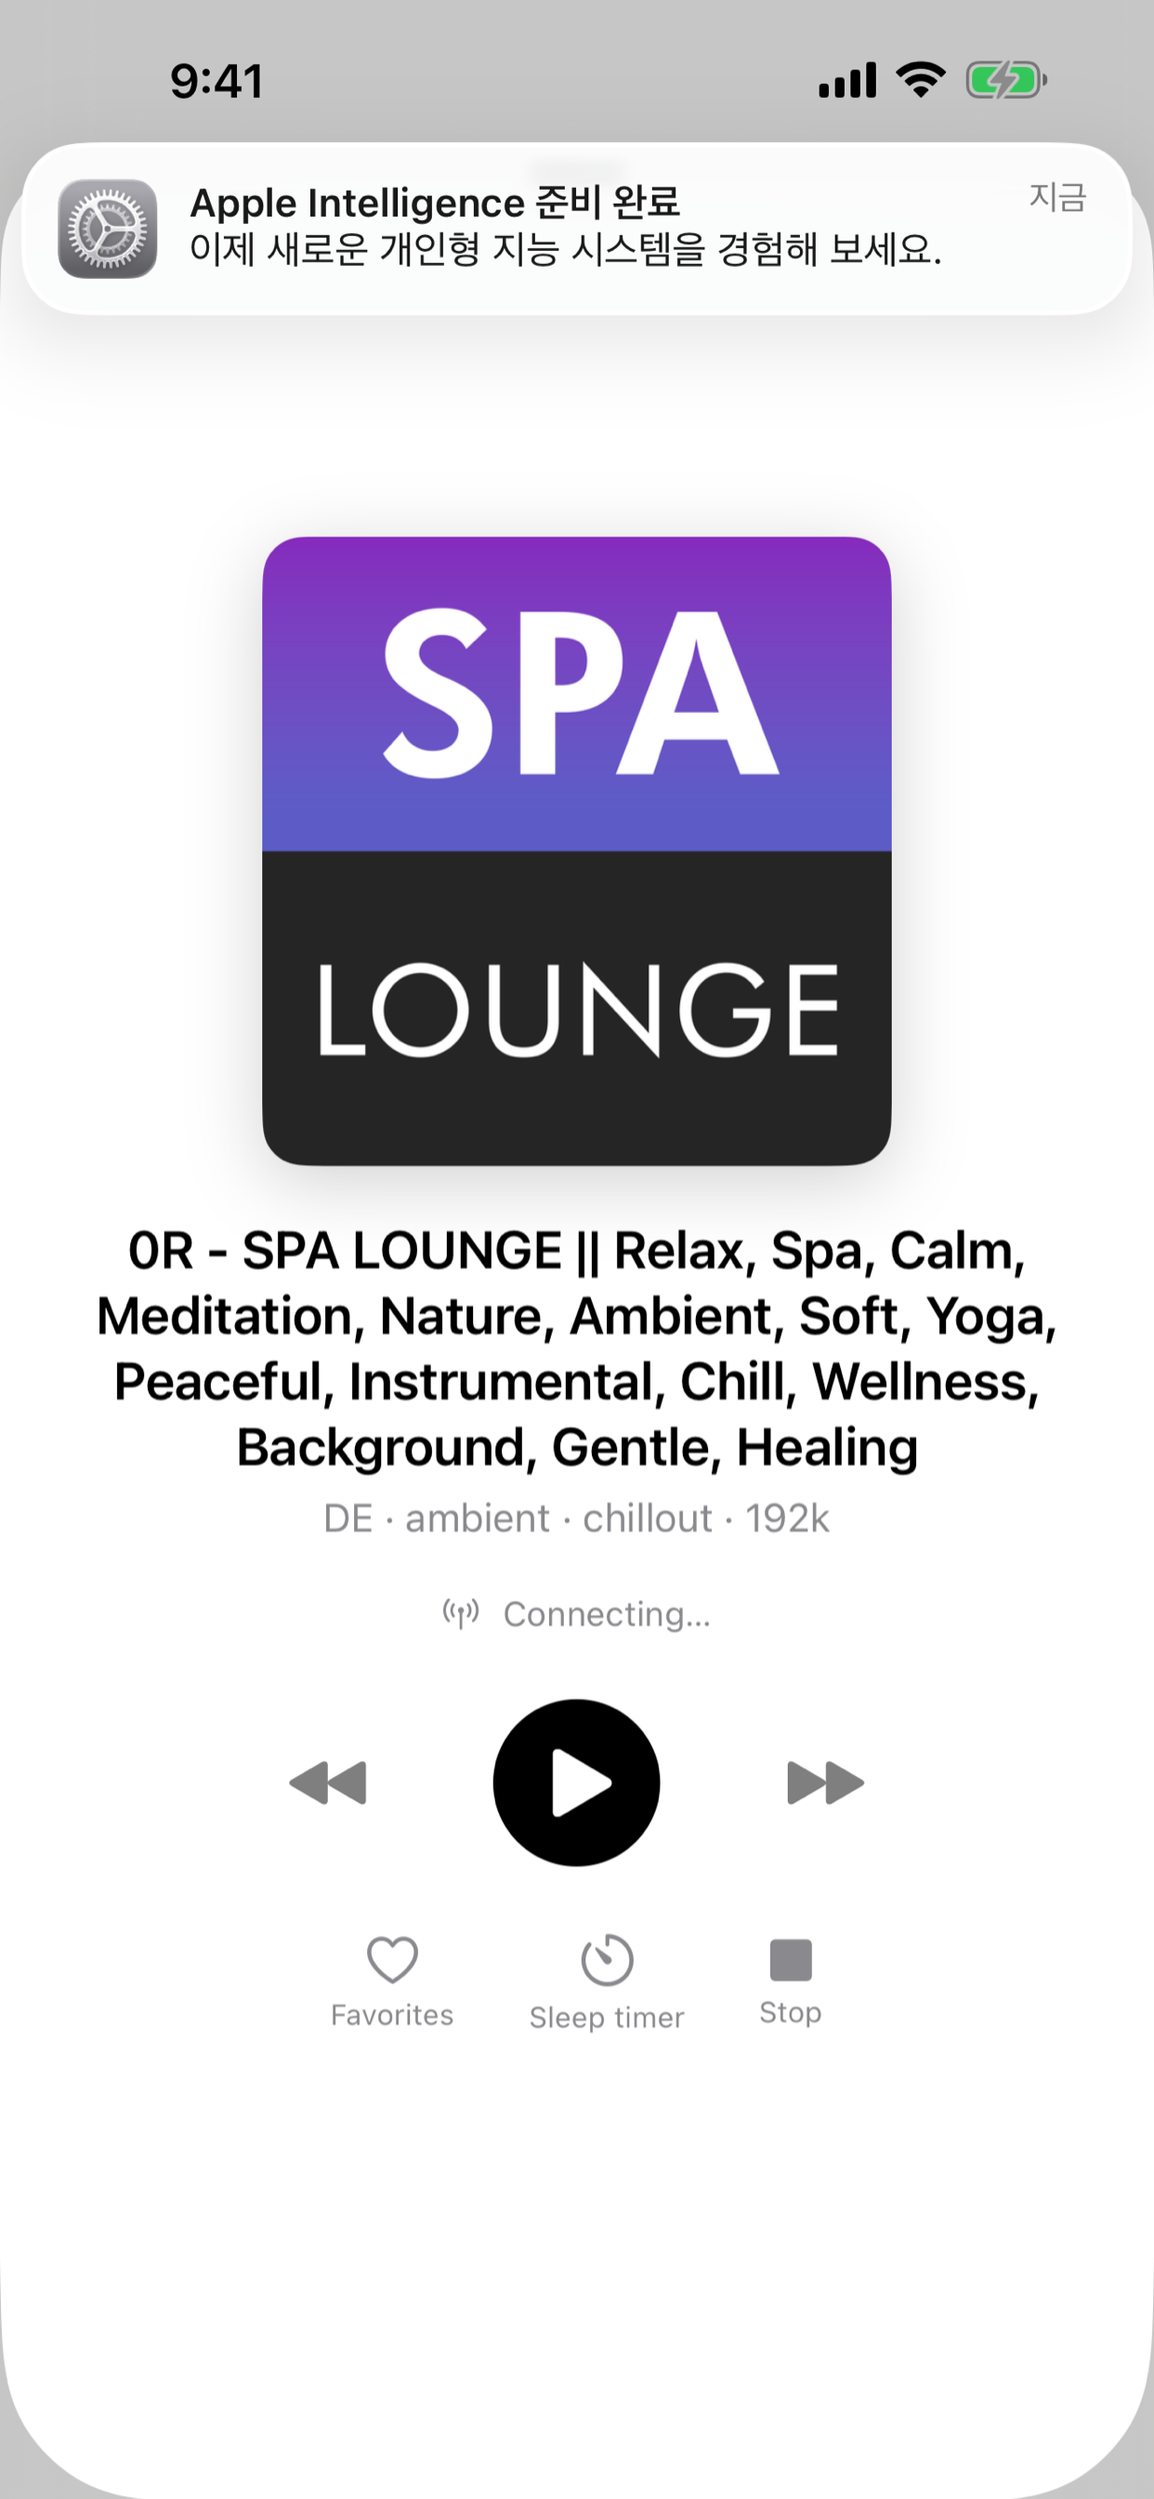
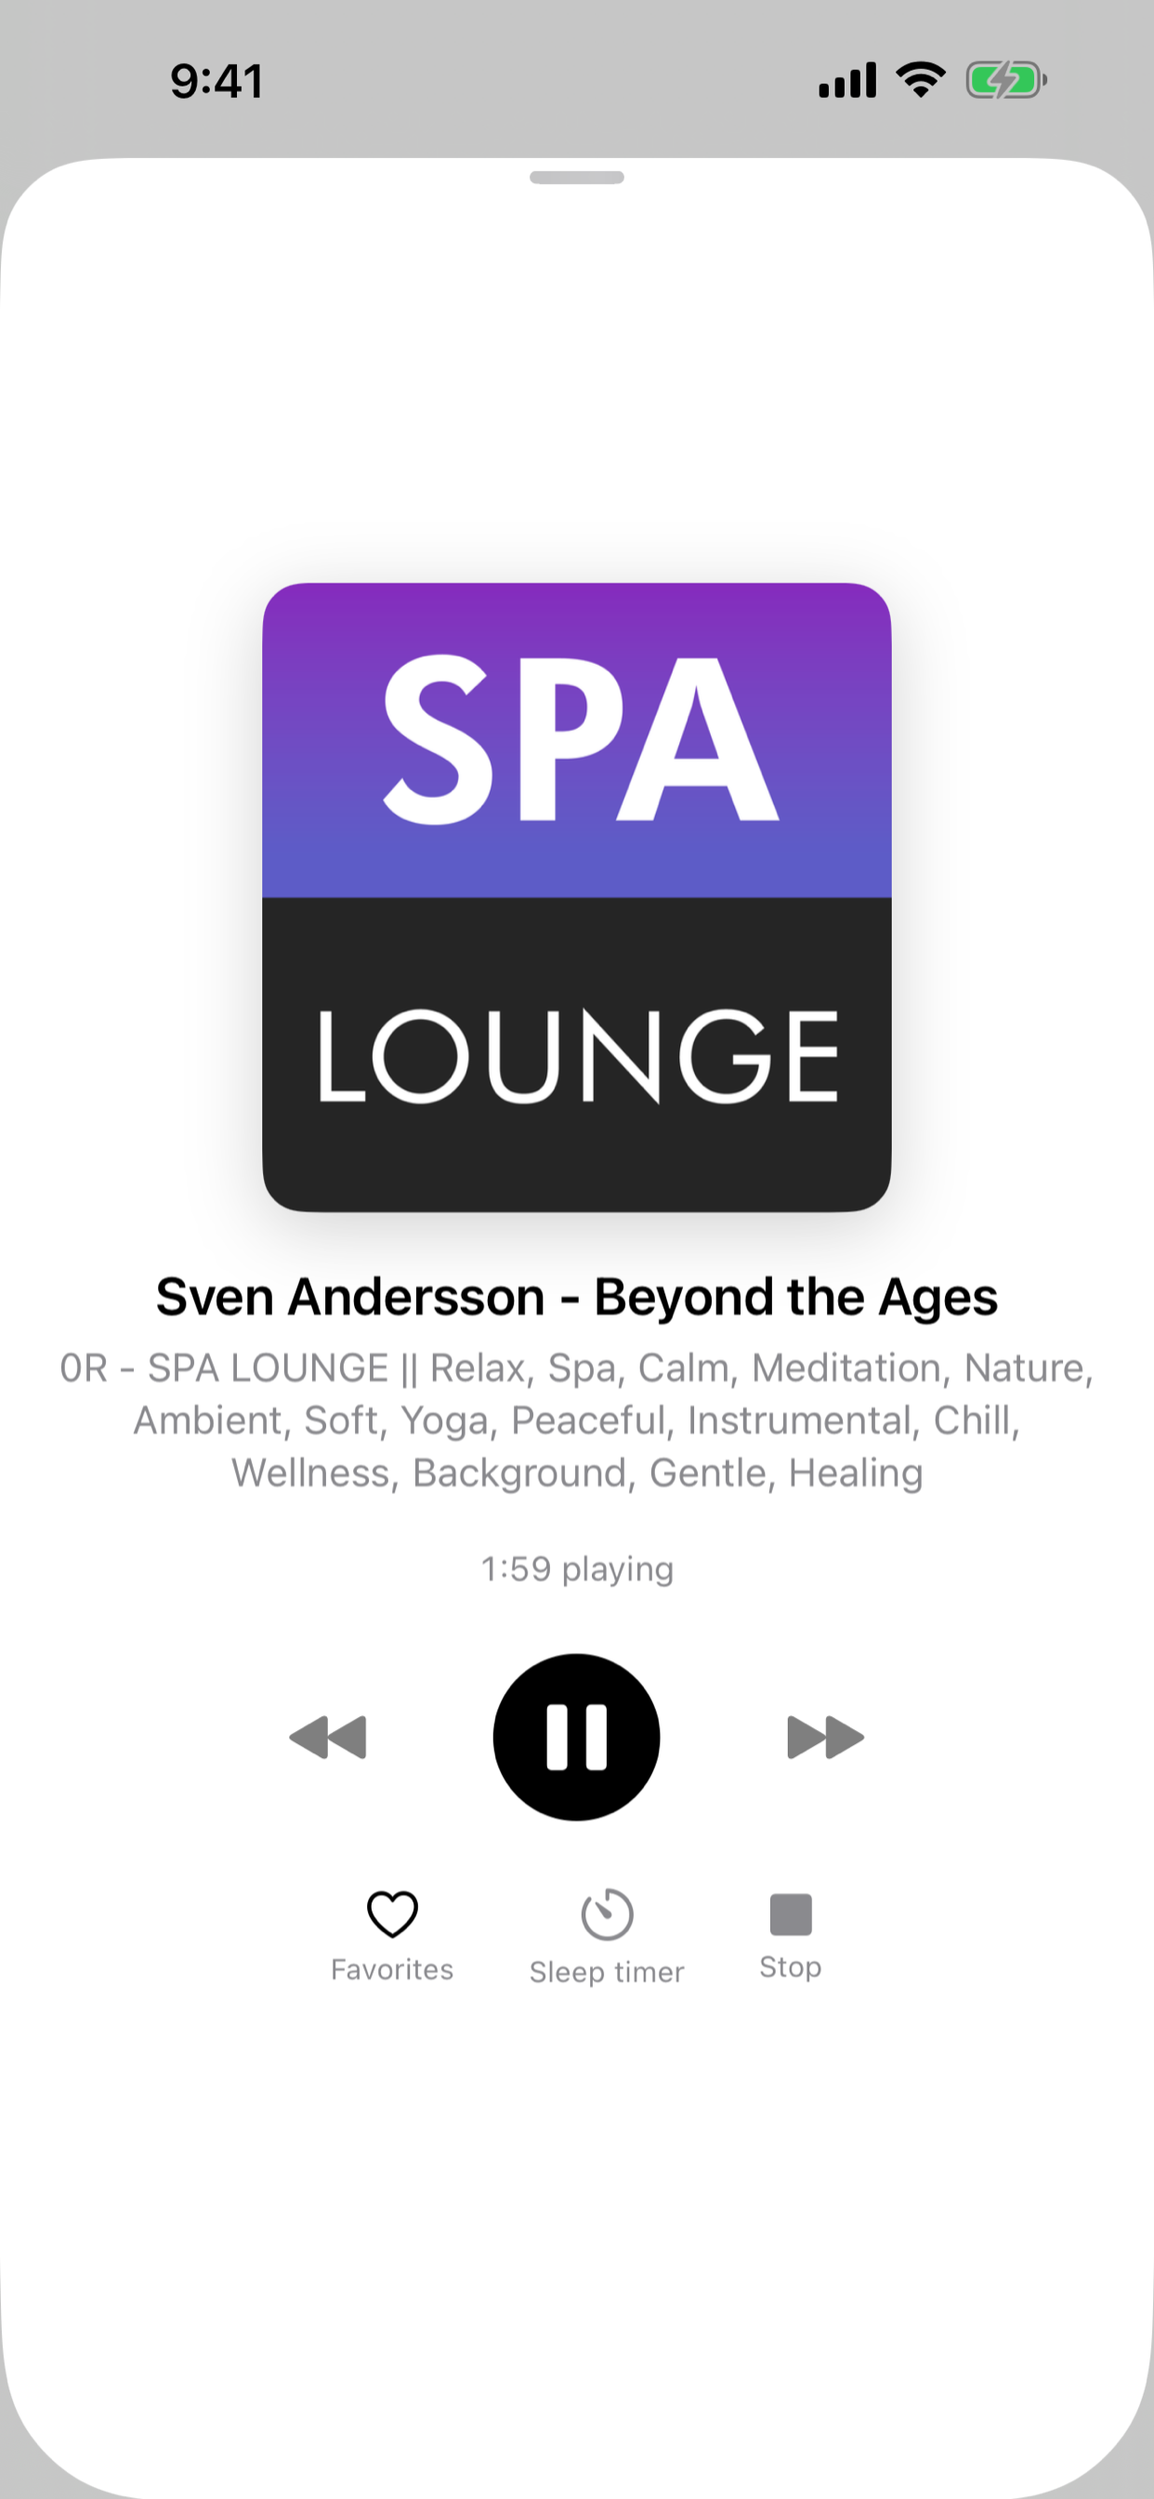
랜딩 검색·AI 답변 손질 — 공유 카드, 문의 FAQ, 캐시, 상호링크
공유 카드가 512px 아이콘이라 작은 카드로 떴다. 1200×630 을 한국어·영어 따로
만들고 summary_large_image 로 바꿨다. 만드는 자리는 worker/tools/ 다.

문의 페이지에 FAQPage 구조화 데이터가 없었다. "알람이 안 울려요" 같은 물음에
답으로 잡힐 자리인데 기계는 Q&A 인 줄 몰랐다. 글을 두 벌 적지 않으려고 문서
HTML 의 h2 와 그 아래 문단에서 뽑는다 — 화면과 갈라질 수가 없다.

정적 파일이 방문할 때마다 재검증됐다(max-age=0). _headers 로 캡처와 아이콘을
7일, 공유 카드를 1일로 잡았다. HTML 은 그대로 5분이다.

사파리 스마트 배너(apple-itunes-app)를 넣었다.

바닥글 상호링크에서 live-translate 가 빠져 llms.txt 와 어긋났다. 이름도 실제
표기(Cross-liveTranslate)로 맞췄다.

en/02-player.png 에 시뮬레이터가 띄운 한국어 알림이 찍혀 있었다. 열여섯 장
가운데 이 한 장만 그랬다. 다시 찍고 크기별 벌까지 갈았다. sips 로 줄이면 같은
화면인데도 JPEG 가 두 배가 돼서 랜딩용은 LANCZOS 로 줄인다.

diff --git a/worker/src/render.ts b/worker/src/render.ts
@@ -14,6 +14,8 @@ import { COPY, type Copy, type Lang } from "./content";
 
 export const SITE = "https://zeroplayer.zerolive.co.kr";
 export const APP_STORE_URL = "https://apps.apple.com/kr/app/zeroplayer/id1610259595";
+/** App Store 앱 ID. 사파리 스마트 배너(apple-itunes-app)가 이 값으로 앱을 찾는다. */
+export const APP_ID = "1610259595";
 export const REPO_URL = "https://github.com/leonardo204/zeroplayer";
 export const CONTACT_EMAIL = "zerolive7@gmail.com";
 export const APP_NAME = "zeroPlayer";
@@ -92,6 +94,7 @@ const SIBLINGS: { host: string; ko: string; en: string }[] = [
 	{ host: "golf", ko: "라운드온", en: "RoundOn" },
 	{ host: "wander", ko: "Wandery", en: "Wandery" },
 	{ host: "hamzzi-diet", ko: "햄찌 다이어트", en: "햄찌 다이어트" },
+	{ host: "live-translate", ko: "Cross-liveTranslate", en: "Cross-liveTranslate" },
 	{ host: "zeroplayer", ko: "zeroPlayer", en: "zeroPlayer" },
 ];
 const SELF_HOST = "zeroplayer";
@@ -143,11 +146,16 @@ ${o.keywords ? `<meta name="keywords" content="${esc(o.keywords)}">` : ""}
 <meta property="og:url" content="${o.canonical}">
 <meta property="og:type" content="website">
 <meta property="og:locale" content="${o.lang === "ko" ? "ko_KR" : "en_US"}">
-<meta property="og:image" content="${SITE}/assets/icon.png">
-<meta name="twitter:card" content="summary">
+<meta property="og:image" content="${SITE}${o.lang === "en" ? "/assets/og-en.jpg" : "/assets/og.jpg"}">
+<meta property="og:image:width" content="1200">
+<meta property="og:image:height" content="630">
+<meta property="og:image:alt" content="${esc(c.ogImageAlt)}">
+<meta name="twitter:card" content="summary_large_image">
 <meta name="twitter:title" content="${esc(o.title)}">
 <meta name="twitter:description" content="${esc(o.desc)}">
-<meta name="twitter:image" content="${SITE}/assets/icon.png">
+<meta name="twitter:image" content="${SITE}${o.lang === "en" ? "/assets/og-en.jpg" : "/assets/og.jpg"}">
+<meta name="twitter:image:alt" content="${esc(c.ogImageAlt)}">
+<meta name="apple-itunes-app" content="app-id=${APP_ID}">
 <link rel="icon" href="/assets/icon.png">
 <link rel="apple-touch-icon" href="/assets/icon.png">
 <link rel="preconnect" href="https://cdn.jsdelivr.net" crossorigin>
@@ -458,8 +466,57 @@ export function renderPrivacy(lang: Lang): string {
 	});
 }
 
+/**
+ * 문의 문서의 `<h2>` 와 그 아래 문단을 뽑아 FAQPage 구조화 데이터를 만든다.
+ *
+ * 글을 두 벌 적지 않는다. 화면에 보이는 것과 기계가 읽는 것이 갈라지면 구글이
+ * 구조화 데이터 위반으로 보고, 갈라진 줄도 모르게 된다. 그래서 같은 문자열에서 뽑는다.
+ * 첫 `<h2>` 앞의 문단은 머리말이라 건너뛴다.
+ */
+function faqFromDoc(html: string, url: string): unknown | null {
+	const parts = html.split(/<h2>/).slice(1);
+	const qa = parts
+		.map((chunk) => {
+			const end = chunk.indexOf("</h2>");
+			if (end < 0) return null;
+			const q = stripTags(chunk.slice(0, end));
+			const a = stripTags(chunk.slice(end + 5));
+			return q && a ? { q, a } : null;
+		})
+		.filter((x): x is { q: string; a: string } => x !== null);
+	if (!qa.length) return null;
+
+	return {
+		"@context": "https://schema.org",
+		"@type": "FAQPage",
+		"@id": url + "#faq",
+		mainEntity: qa.map((x) => ({
+			"@type": "Question",
+			name: x.q,
+			acceptedAnswer: { "@type": "Answer", text: x.a },
+		})),
+	};
+}
+
+/** 태그를 걷어내고 엔터티를 되돌려 줄글 한 덩이로 만든다. */
+function stripTags(html: string): string {
+	return html
+		.replace(/<[^>]+>/g, " ")
+		.replace(/&rarr;/g, "→")
+		.replace(/&nbsp;/g, " ")
+		.replace(/&amp;/g, "&")
+		.replace(/&lt;/g, "<")
+		.replace(/&gt;/g, ">")
+		.replace(/&quot;/g, '"')
+		.replace(/\s+/g, " ")
+		.trim();
+}
+
 export function renderSupport(lang: Lang): string {
 	const c = COPY[lang];
+	const doc = lang === "ko" ? SUPPORT_KO : SUPPORT_EN;
+	const url = SITE + (lang === "en" ? "/en/support" : "/support");
+	const faq = faqFromDoc(doc, url);
 	return shell({
 		lang,
 		title: `${c.supportTitle} — ${APP_NAME}`,
@@ -470,7 +527,8 @@ export function renderSupport(lang: Lang): string {
 		canonical: SITE + (lang === "en" ? "/en/support" : "/support"),
 		altKo: SITE + "/support",
 		altEn: SITE + "/en/support",
-		body: docShell(lang, c.supportTitle, c.supportUpdated, lang === "ko" ? SUPPORT_KO : SUPPORT_EN),
+		body: docShell(lang, c.supportTitle, c.supportUpdated, doc),
+		jsonLd: [faq].filter((x): x is unknown => x !== null),
 	});
 }
 const PRIVACY_KO = `

diff --git a/worker/tools/og-ko.html b/worker/tools/og-ko.html
@@ -1,0 +1,40 @@
+<!DOCTYPE html><html lang="ko"><head><meta charset="UTF-8">
+<link href="https://cdn.jsdelivr.net/gh/orioncactus/pretendard@v1.3.9/dist/web/variable/pretendardvariable-dynamic-subset.min.css" rel="stylesheet">
+<style>
+*{margin:0;padding:0;box-sizing:border-box}
+body{width:1200px;height:630px;overflow:hidden;background:#101820;
+  font-family:'Pretendard Variable',Pretendard,-apple-system,sans-serif;
+  color:#fff;display:flex;align-items:center;position:relative}
+/* 왼쪽 위에서 은은하게 밝아지는 바탕. 그라데이션을 배경 전체에 쓰지 않고 한 겹만 둔다 */
+body::before{content:'';position:absolute;inset:0;
+  background:radial-gradient(70% 90% at 12% 0%,rgba(73,165,203,.22) 0%,rgba(16,24,32,0) 62%)}
+.left{position:relative;width:640px;padding:0 0 0 72px;flex:none}
+.brand{display:flex;align-items:center;gap:14px;margin-bottom:34px}
+.brand img{width:52px;height:52px;border-radius:12px}
+.brand .n{font-size:27px;font-weight:700;letter-spacing:-.6px}
+h1{font-size:50px;font-weight:800;line-height:1.26;letter-spacing:-1.9px;margin-bottom:22px}
+h1 em{font-style:normal;color:#7CC6E4}
+p{font-size:20px;line-height:1.6;color:#9BA8B3;letter-spacing:-.4px;max-width:530px}
+.meta{margin-top:34px;display:flex;align-items:center;gap:13px;
+  font-size:15.5px;color:#6E7B87;letter-spacing:-.2px}
+.meta i{font-style:normal;width:3px;height:3px;border-radius:50%;background:#3C4855}
+/* 화면 캡처 셋을 겹쳐 세운다. 가짜 기기 테두리는 그리지 않는다 */
+.shots{position:relative;flex:1;height:630px}
+.shots img{position:absolute;border-radius:19px;
+  box-shadow:0 26px 70px rgba(0,0,0,.52);outline:1px solid rgba(255,255,255,.09);outline-offset:-1px}
+.s1{width:206px;top:150px;left:2px;opacity:.55}
+.s2{width:234px;top:98px;left:120px;opacity:.8}
+.s3{width:262px;top:46px;left:252px}
+</style></head><body>
+<div class="left">
+  <div class="brand"><img src="../public/assets/icon.png"><span class="n">zeroPlayer</span></div>
+  <h1>무엇을 들을지 고르는 대신,<br><em>지금 무엇을 하는지</em>만</h1>
+  <p>취침·운전·공부·작업·기상. 상황을 누르면 방송이 정해지고, 정해 둔 시간이 지나면 스스로 꺼집니다.</p>
+  <div class="meta"><span>iPhone · iPad</span><i></i><span>iOS 17.0+</span><i></i><span>무료</span></div>
+</div>
+<div class="shots">
+  <img class="s1" src="../public/assets/shots/alarm-ko.jpg">
+  <img class="s2" src="../public/assets/shots/player-ko.jpg">
+  <img class="s3" src="../public/assets/shots/presets-ko.jpg">
+</div>
+</body></html>

diff --git a/worker/tools/og-en.html b/worker/tools/og-en.html
@@ -1,0 +1,40 @@
+<!DOCTYPE html><html lang="en"><head><meta charset="UTF-8">
+<link href="https://cdn.jsdelivr.net/gh/orioncactus/pretendard@v1.3.9/dist/web/variable/pretendardvariable-dynamic-subset.min.css" rel="stylesheet">
+<style>
+*{margin:0;padding:0;box-sizing:border-box}
+body{width:1200px;height:630px;overflow:hidden;background:#101820;
+  font-family:'Pretendard Variable',Pretendard,-apple-system,sans-serif;
+  color:#fff;display:flex;align-items:center;position:relative}
+/* 왼쪽 위에서 은은하게 밝아지는 바탕. 그라데이션을 배경 전체에 쓰지 않고 한 겹만 둔다 */
+body::before{content:'';position:absolute;inset:0;
+  background:radial-gradient(70% 90% at 12% 0%,rgba(73,165,203,.22) 0%,rgba(16,24,32,0) 62%)}
+.left{position:relative;width:640px;padding:0 0 0 72px;flex:none}
+.brand{display:flex;align-items:center;gap:14px;margin-bottom:34px}
+.brand img{width:52px;height:52px;border-radius:12px}
+.brand .n{font-size:27px;font-weight:700;letter-spacing:-.6px}
+h1{font-size:45px;font-weight:800;line-height:1.26;letter-spacing:-1.9px;margin-bottom:22px}
+h1 em{font-style:normal;color:#7CC6E4}
+p{font-size:20px;line-height:1.6;color:#9BA8B3;letter-spacing:-.4px;max-width:530px}
+.meta{margin-top:34px;display:flex;align-items:center;gap:13px;
+  font-size:15.5px;color:#6E7B87;letter-spacing:-.2px}
+.meta i{font-style:normal;width:3px;height:3px;border-radius:50%;background:#3C4855}
+/* 화면 캡처 셋을 겹쳐 세운다. 가짜 기기 테두리는 그리지 않는다 */
+.shots{position:relative;flex:1;height:630px}
+.shots img{position:absolute;border-radius:19px;
+  box-shadow:0 26px 70px rgba(0,0,0,.52);outline:1px solid rgba(255,255,255,.09);outline-offset:-1px}
+.s1{width:206px;top:150px;left:2px;opacity:.55}
+.s2{width:234px;top:98px;left:120px;opacity:.8}
+.s3{width:262px;top:46px;left:252px}
+</style></head><body>
+<div class="left">
+  <div class="brand"><img src="../public/assets/icon.png"><span class="n">zeroPlayer</span></div>
+  <h1>Choose what you are doing,<br><em>not what to listen to</em></h1>
+  <p>Sleep, driving, study, work, waking up. Pick the moment and the station follows, then stops on its own.</p>
+  <div class="meta"><span>iPhone · iPad</span><i></i><span>iOS 17.0+</span><i></i><span>Free</span></div>
+</div>
+<div class="shots">
+  <img class="s1" src="../public/assets/shots/alarm-en.jpg">
+  <img class="s2" src="../public/assets/shots/player-en.jpg">
+  <img class="s3" src="../public/assets/shots/presets-en.jpg">
+</div>
+</body></html>

diff --git a/worker/src/content.ts b/worker/src/content.ts
@@ -55,6 +55,8 @@ export interface Copy {
 	title: string;
 	desc: string;
 	keywords: string;
+	/** 공유 카드 그림의 대체 글. 그림을 못 받는 곳에서 이 문장이 대신 나간다. */
+	ogImageAlt: string;
 
 	navFeatures: string;
 	navAlarm: string;
@@ -125,6 +127,8 @@ const KO: Copy = {
 		"취침·운전·공부·작업·기상 가운데 하나를 누르면 그 시각에 맞는 인터넷 라디오나 팟캐스트가 바로 재생되고, 정해 둔 시간이 지나면 소리가 서서히 줄며 꺼집니다. 아이폰·아이패드 무료 앱.",
 	keywords:
 		"인터넷 라디오,라디오 앱,팟캐스트,수면 타이머,취침 타이머,자동 종료,라디오 알람,클래식 알람음,아이폰 라디오,zeroPlayer",
+	ogImageAlt:
+		"zeroPlayer 화면 셋 — 프리셋 목록, 재생 화면, 알람 화면.",
 
 	navFeatures: "기능",
 	navAlarm: "알람",
@@ -305,6 +309,8 @@ const EN: Copy = {
 		"Tap one of five moments — sleep, driving, study, work, waking up — and a fitting internet radio station or podcast starts right away, then fades out and stops when your timer runs down. Free for iPhone and iPad.",
 	keywords:
 		"internet radio,radio app,podcast player,sleep timer,fade out,radio alarm,classical alarm sounds,iphone radio,zeroPlayer",
+	ogImageAlt:
+		"Three zeroPlayer screens — the preset list, the player and the alarm.",
 
 	navFeatures: "Features",
 	navAlarm: "Alarm",

diff --git a/worker/src/index.ts b/worker/src/index.ts
@@ -257,7 +257,7 @@ google.com, pub-4410880415888380, DIRECT, f08c47fec0942fa0.
 - RoundOn (golf score): https://golf.zerolive.co.kr
 - Wandery (travel): https://wander.zerolive.co.kr
 - 햄찌 다이어트 (diet): https://hamzzi-diet.zerolive.co.kr
-- Live Translate (real-time translation): https://live-translate.zerolive.co.kr
+- Cross-liveTranslate (real-time subtitles for computer audio): https://live-translate.zerolive.co.kr
 `;
 }
 

diff --git a/worker/tools/README.md b/worker/tools/README.md
@@ -1,0 +1,36 @@
+# 공유 카드 그림 만들기
+
+`og.jpg`(한국어)·`og-en.jpg`(영어) 를 만드는 자리다. 1200×630 이고
+`worker/public/assets/` 에 들어간다.
+
+512px 아이콘을 `og:image` 로 쓰면 카톡·슬랙·X 가 작은 카드(`summary`)로 그린다.
+1200×630 을 주면 큰 카드(`summary_large_image`)가 되고 화면 캡처가 크게 붙는다.
+
+## 다시 만들기
+
+`og-ko.html` 과 `og-en.html` 이 곧 그림이다. 랜딩과 같은 글꼴(Pretendard)·같은 색을 쓰고
+`../public/assets/` 의 캡처를 그대로 가리키므로 따로 복사할 것이 없다.
+
+```sh
+cd worker/tools
+CHROME="/Applications/Google Chrome.app/Contents/MacOS/Google Chrome"
+for L in ko en; do
+  "$CHROME" --headless --disable-gpu --hide-scrollbars --force-device-scale-factor=2 \
+    --window-size=1200,630 --screenshot="raw-$L.png" --virtual-time-budget=6000 \
+    "file://$PWD/og-$L.html"
+  sips -z 630 1200 "raw-$L.png" --out "shot-$L.png"
+done
+sips -s format jpeg -s formatOptions 86 shot-ko.png --out ../public/assets/og.jpg
+sips -s format jpeg -s formatOptions 86 shot-en.png --out ../public/assets/og-en.jpg
+rm -f raw-*.png shot-*.png
+```
+
+`--force-device-scale-factor=2` 로 찍고 반으로 줄이는 것이 요점이다. 1배로 찍으면
+글자 가장자리가 거칠다.
+
+## 고칠 때
+
+- 문구는 `og-*.html` 안에 그대로 있다. 랜딩의 `heroTitle` 과 맞춰 둔다.
+- 영어는 제목이 길어 `h1` 을 45px 로 낮춰 두 줄에 맞췄다. 문구를 바꾸면 줄 수를 확인한다.
+- 캡처를 바꾸면 `.s1`·`.s2`·`.s3` 의 `left`·`top` 을 다시 본다. 오른쪽 끝에서 잘리기 쉽다.
+- 바꾼 뒤에는 `og:image:alt`(`src/content.ts` 의 `ogImageAlt`)도 함께 고친다.

diff --git a/Screenshots/README.md b/Screenshots/README.md
@@ -50,6 +50,11 @@ xcrun simctl spawn $DEV defaults write -g AppleLocale -string en_US
 서버에 등록해 둔 알람을 그대로 내려받는다. 그러면 영어 화면에 지난 한국어 알람 이름이
 섞인다.
 
+**찍은 뒤 위쪽 띠를 확인한다.** 시뮬레이터를 `erase` 하고 부팅하면 잠시 뒤
+"Apple Intelligence 준비 완료" 시스템 알림이 배너로 뜬다. 그 순간 찍으면 캡처에 그대로
+남는데, 영어 벌에도 **한국어 배너**가 박힌다(실제로 `en/02-player.png` 이 그랬다).
+배너는 몇 초 뒤 사라지므로 조금 기다렸다 다시 찍으면 된다.
+
 **지상파 화면은 넣지 않는다.** 해제해야 보이는 기능이라 스토어 화면에 올리면 해제하지
 않은 사람이 찾다가 못 찾는다. 대신 심사 메모에 여는 방법을 적는다.
 
@@ -73,6 +78,17 @@ cd Screenshots && for f in ko/*.png; do
   sips --resampleWidth 1284 "ko-6.7/$(basename $f)"
   sips -c 2778 1284 "ko-6.7/$(basename $f)"
 done
+```
+
+랜딩(`worker/public/assets/shots/`)에 쓸 작은 벌은 `sips` 로 줄이지 않는다. 같은 화면인데도
+JPEG 가 두 배로 커진다 — 재생 화면이 `sips` 로는 97KB, `LANCZOS` 로는 61KB 였다.
+
+```python
+from PIL import Image
+im = Image.open('Screenshots/en/02-player.png').convert('RGB')
+im = im.resize((860, round(860*im.height/im.width)), Image.LANCZOS)
+im.save('worker/public/assets/shots/player-en.jpg', 'JPEG',
+        quality=78, optimize=True, progressive=True)
 ```
 
 ## 알파 채널을 반드시 걷어낸다
